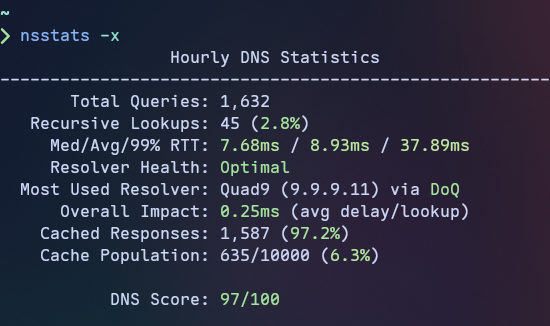
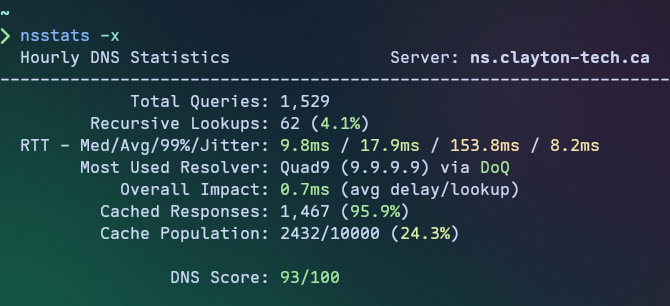
chore: update README and screenshots

diff --git a/README.md b/README.md
@@ -121,10 +121,10 @@ Generate an API token from the Technitium DNS Server web console under `Administ
 
 The following metrics require `-x`/`--extra` or `extra_metrics = true` in your config file:
 
-| Metric                 | Description                                                                             |
-| ---------------------- | --------------------------------------------------------------------------------------- |
-| **Resolver Health**    | Optimal (<15ms), Fair (<25ms), or Degraded (your ISP connection's effect on resolution) |
-| **Most Used Resolver** | Upstream resolver with highest response rate - shows name, IP, and protocol in use      |
+| Metric                 | Description                                                                        |
+| ---------------------- | ---------------------------------------------------------------------------------- |
+| **Jitter**             | Network conditions current effect on upstream resolution (displayed with RTT's)    |
+| **Most Used Resolver** | Upstream resolver with highest response rate - shows name, IP, and protocol in use |
 
 ## Contributing
 